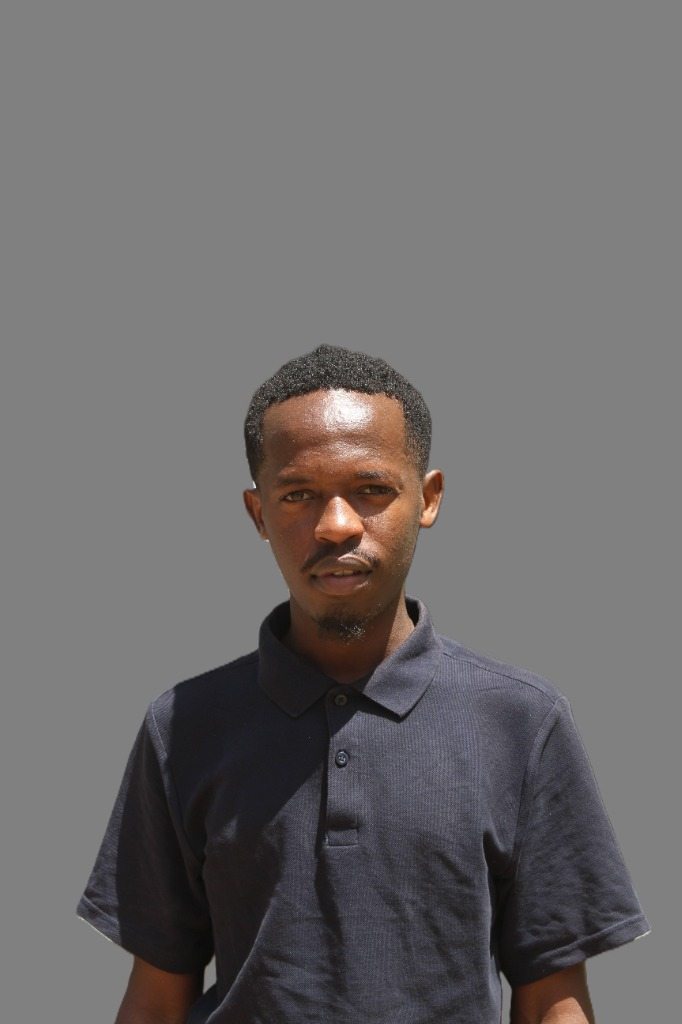
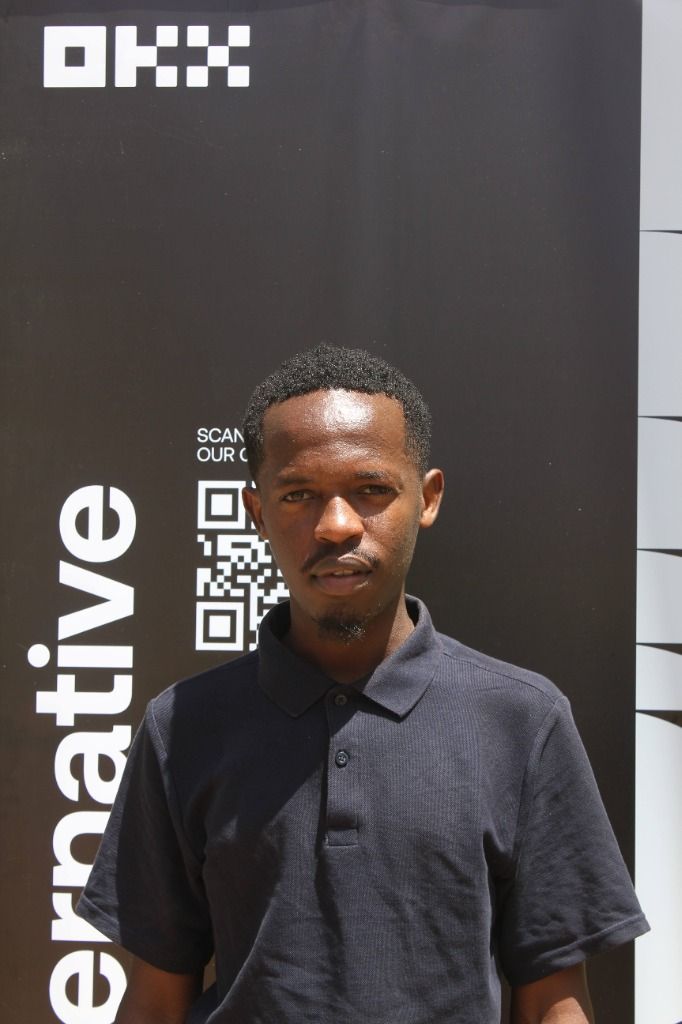
feat: replace portrait image with new event photo and refine framing

diff --git a/components/Hero.tsx b/components/Hero.tsx
@@ -73,7 +73,7 @@ export function Hero({
               fill
               priority
               sizes="(max-width: 640px) 176px, (max-width: 768px) 208px, 224px"
-              className="object-cover object-top filter brightness-105 group-hover:scale-108 transition-transform duration-700 ease-out"
+              className="object-cover object-[center_28%] filter brightness-105 group-hover:scale-108 transition-transform duration-700 ease-out"
             />
           </div>
 
